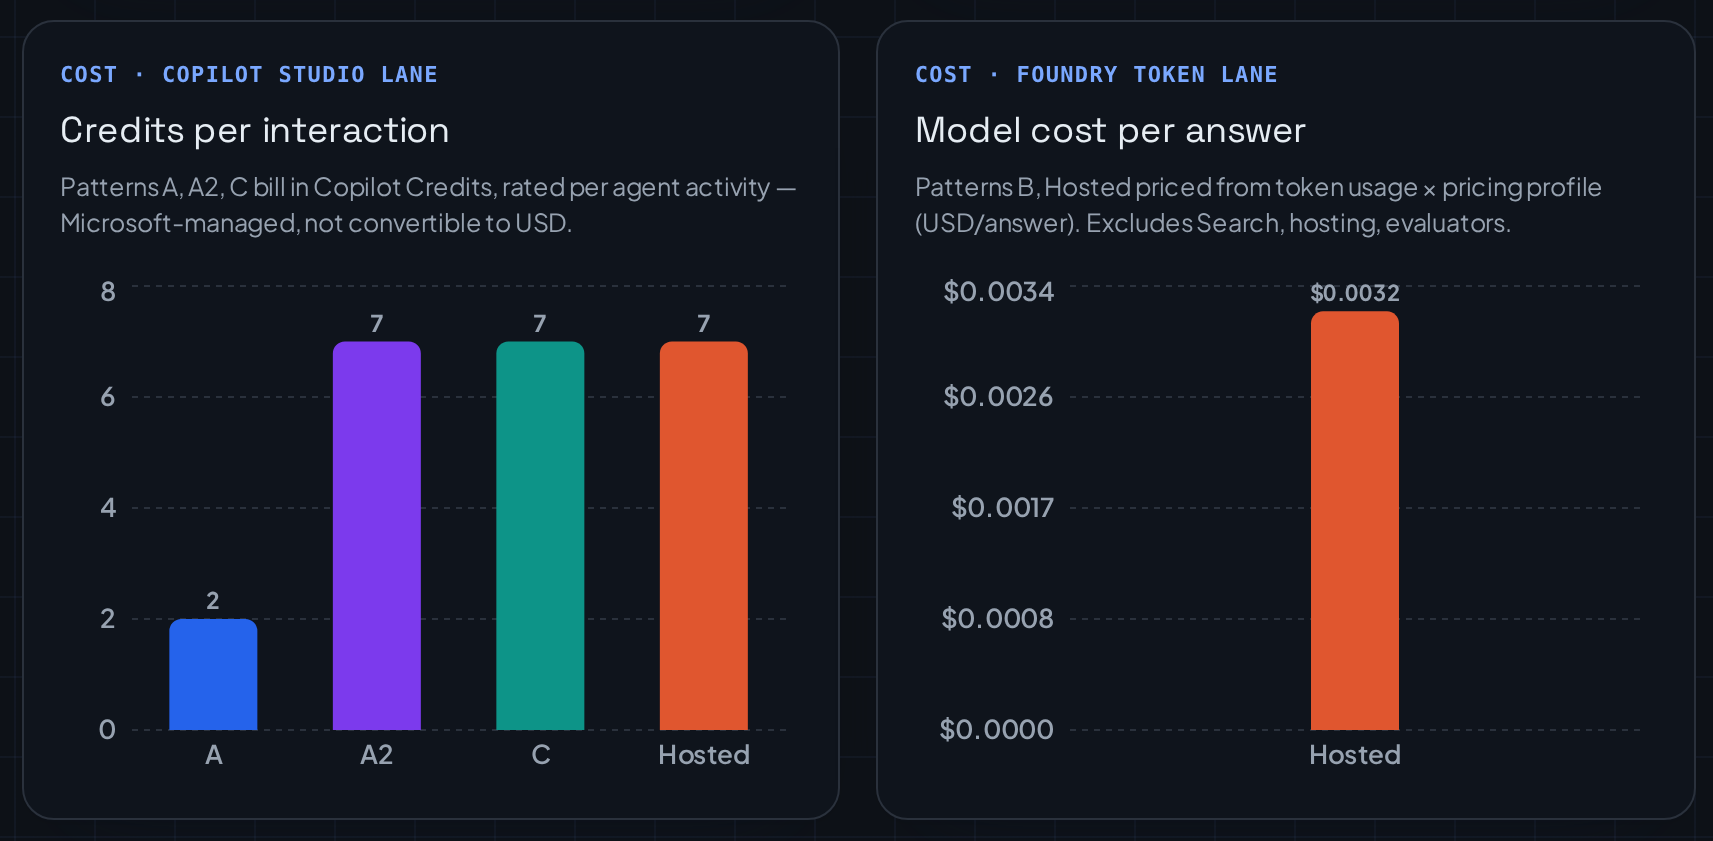
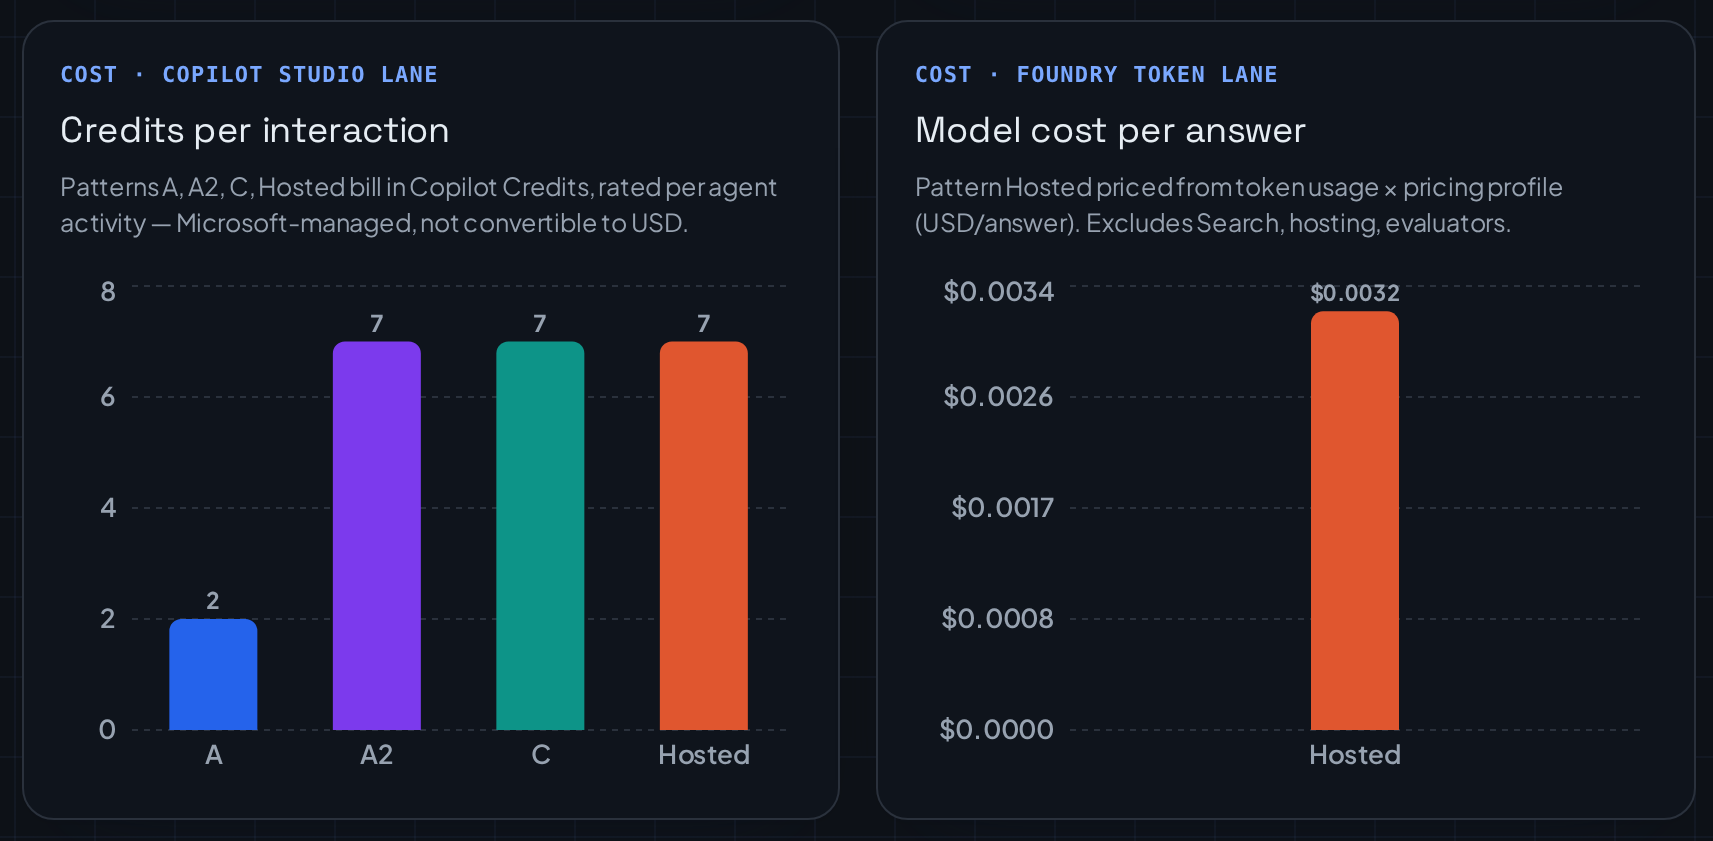
Derive cost-lane chart hints from the rendered rows
Both hints hardcoded a pattern list and had already drifted from the bars. The
Copilot Studio lane claimed "Patterns A, A2, C" while rendering four bars
including Hosted, and the Foundry lane claimed "Patterns B, Hosted" while
rendering only Hosted. That overstatement was visible in a screenshot slated
for publication.

Name the patterns from the rows actually plotted, with singular or plural
agreement, so the copy cannot disagree with the chart again. Recapture the app
screenshots and re-crop the cost-lanes asset from the corrected panel.

Changed region(s): [[0.0309, 0.2164, 0.4641, 0.2782], [0.5879, 0.2164, 0.9282, 0.2473]]

diff --git a/src/frontend/src/components/BenchmarkCharts.tsx b/src/frontend/src/components/BenchmarkCharts.tsx
@@ -136,6 +136,10 @@ export default function BenchmarkCharts({ items }: { items: ExperimentSummary[] 
     return run ? { pattern: String(pattern), cost: run.estimated_variable_cost as number } : null;
   }).filter((row): row is { pattern: string; cost: number } => row !== null);
 
+  // Hints name only the patterns that actually rendered, so they cannot drift from the bars.
+  const namePatterns = (rows: { pattern: string }[]) =>
+    `${rows.length === 1 ? "Pattern" : "Patterns"} ${rows.map((row) => row.pattern).join(", ")}`;
+
   return (
     <section className="charts-panel" aria-label="Benchmark at a glance">
       <div className="section-title charts-title">
@@ -267,7 +271,7 @@ export default function BenchmarkCharts({ items }: { items: ExperimentSummary[] 
           <ChartCard
             eyebrow="Cost · Copilot Studio lane"
             title="Credits per interaction"
-            hint="Patterns A, A2, C bill in Copilot Credits, rated per agent activity — Microsoft-managed, not convertible to USD."
+            hint={`${namePatterns(creditRows)} bill in Copilot Credits, rated per agent activity — Microsoft-managed, not convertible to USD.`}
           >
             <ResponsiveContainer width="100%" height={260}>
               <BarChart data={creditRows} margin={{ top: 8, right: 8, left: -8, bottom: 0 }}>
@@ -294,7 +298,7 @@ export default function BenchmarkCharts({ items }: { items: ExperimentSummary[] 
           <ChartCard
             eyebrow="Cost · Foundry token lane"
             title="Model cost per answer"
-            hint="Patterns B, Hosted priced from token usage × pricing profile (USD/answer). Excludes Search, hosting, evaluators."
+            hint={`${namePatterns(costRows)} priced from token usage × pricing profile (USD/answer). Excludes Search, hosting, evaluators.`}
           >
             <ResponsiveContainer width="100%" height={260}>
               <BarChart data={costRows} margin={{ top: 8, right: 8, left: 8, bottom: 0 }}>
